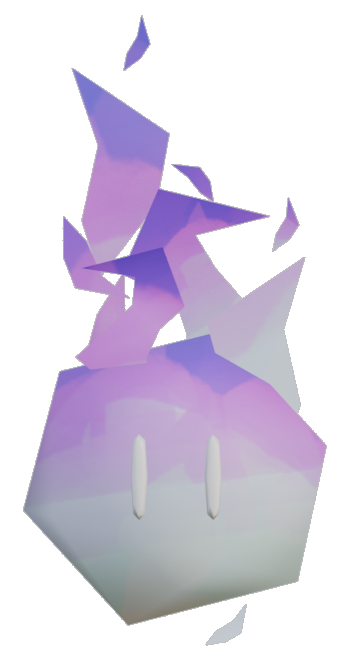
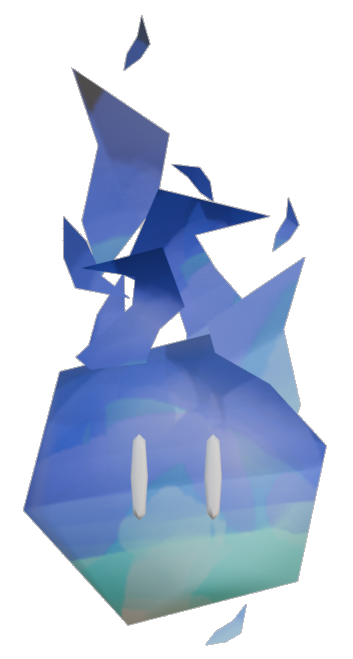
LightSelectSceneの基盤途中

diff --git a/THIEF/Src/Scene/LightSelectScene/LightSelectInfo.cpp b/THIEF/Src/Scene/LightSelectScene/LightSelectInfo.cpp
@@ -1,0 +1,20 @@
+#include "LightSelectInfo.h"
+namespace LightSelectSceneTable
+{
+	const std::unordered_map<LIGHT_TYPE, std::string> Table =
+	{ 
+		{LIGHT_TYPE::COLOR_0, {"Data/Image/LightSelectWisp/Wisp00.png" }},
+		{LIGHT_TYPE::COLOR_1, {"Data/Image/LightSelectWisp/Wisp01.png" }},
+		{LIGHT_TYPE::COLOR_2, {"Data/Image/LightSelectWisp/Wisp02.png" }},
+		{LIGHT_TYPE::COLOR_3, {"Data/Image/LightSelectWisp/Wisp03.png" }},
+		{LIGHT_TYPE::COLOR_4, {"Data/Image/LightSelectWisp/Wisp04.png" }},
+		{LIGHT_TYPE::COLOR_5, {"Data/Image/LightSelectWisp/Wisp05.png" }},
+		{LIGHT_TYPE::COLOR_6, {"Data/Image/LightSelectWisp/Wisp06.png" }},
+		{LIGHT_TYPE::COLOR_7, {"Data/Image/LightSelectWisp/Wisp07.png" }},
+		{LIGHT_TYPE::COLOR_8, {"Data/Image/LightSelectWisp/Wisp08.png" }},
+		{LIGHT_TYPE::COLOR_9, {"Data/Image/LightSelectWisp/Wisp09.png" }},
+		{LIGHT_TYPE::COLOR_10,{"Data/Image/LightSelectWisp/Wisp010.png"}},
+		{LIGHT_TYPE::COLOR_11,{"Data/Image/LightSelectWisp/Wisp011.png"}},
+		{LIGHT_TYPE::COLOR_12,{"Data/Image/LightSelectWisp/Wisp012.png"}},
+	};
+}

diff --git a/THIEF/Src/Scene/LightSelectScene/LightSelectScene.cpp b/THIEF/Src/Scene/LightSelectScene/LightSelectScene.cpp
@@ -1,0 +1,33 @@
+#include "LightSelectScene.h"
+
+LightSelectScene::LightSelectScene(void)
+{
+}
+
+LightSelectScene::~LightSelectScene(void)
+{
+}
+
+void LightSelectScene::Init(void)
+{
+}
+
+void LightSelectScene::Load(void)
+{
+}
+
+void LightSelectScene::LoadEnd(void)
+{
+}
+
+void LightSelectScene::Update(void)
+{
+}
+
+void LightSelectScene::Draw(void)
+{
+}
+
+void LightSelectScene::Release(void)
+{
+}

diff --git a/THIEF/Src/Scene/LightSelectScene/LightSelectInfo.h b/THIEF/Src/Scene/LightSelectScene/LightSelectInfo.h
@@ -1,0 +1,9 @@
+#pragma once
+#include <string>
+#include <unordered_map>
+#include "../../Object/Component/Wisp/LightInfo.h"
+
+namespace LightSelectSceneTable
+{
+	extern const std::unordered_map<LIGHT_TYPE, std::string> Table;
+}
